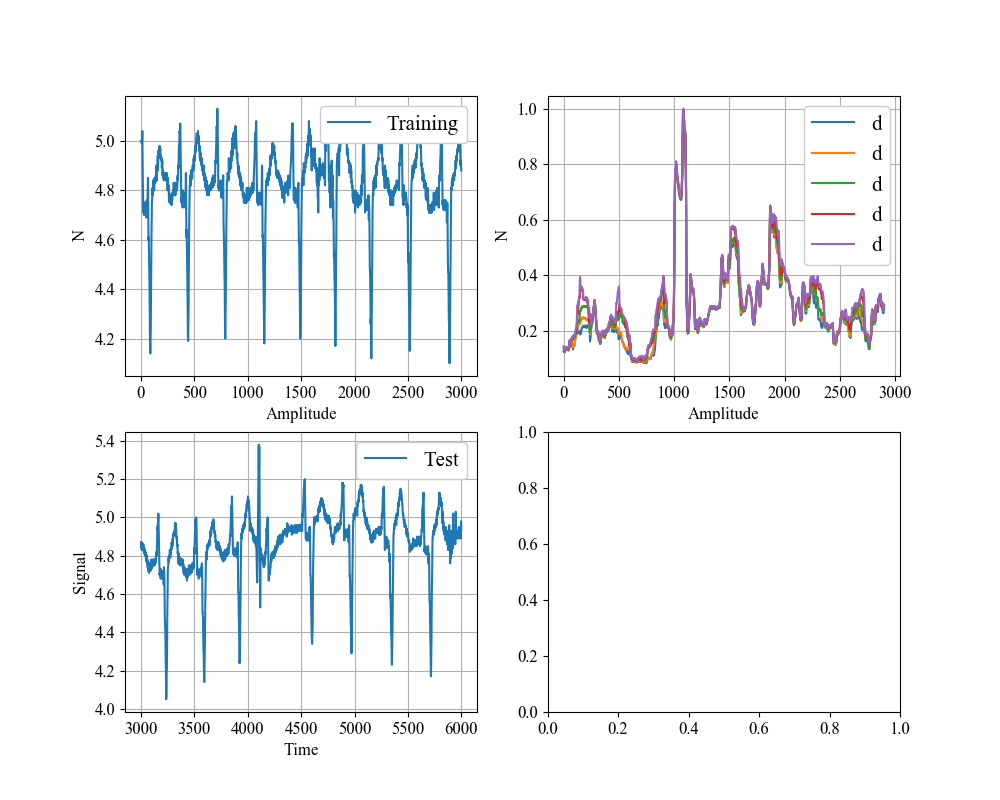
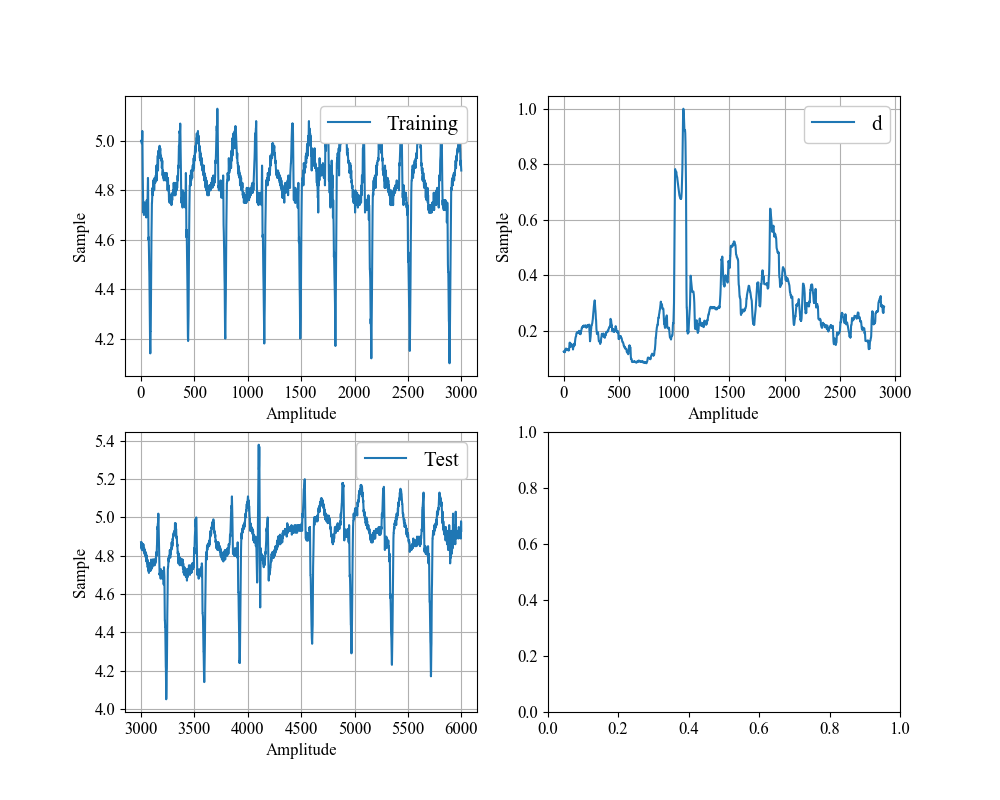
no message

diff --git a/python/scikit/kmeans/sample1.py b/python/scikit/kmeans/sample1.py
@@ -9,61 +9,66 @@ def main():
     df_csv = pd.read_csv(
         "C:\github\sample\python\scikit\kmeans\ecg_dataset.csv")
 
-    # 
+    # 訓練データ
     train_data = df_csv.iloc[1:3000, 1]
-    test_data = df_csv.iloc[3001:6000, 1]
-    width = 100
-    nk = 5
 
+    # 検証データ
+    test_data = df_csv.iloc[3001:6000, 1]
+
+    # 窓幅
+    width = 100
+
+    # K近傍法のk
+    nk = 1
+
+    # 窓幅を使ってベクトルの集合を作成
     train = embed(train_data, width)
     test = embed(test_data, width)
 
+    # k近傍法でクラスタリング
     neigh = NearestNeighbors(n_neighbors=nk)
     neigh.fit(train)
-    d = neigh.kneighbors(test)[0]  # [1]
-    #d = d.T
-    print(d)
-    # 距離をmax1にするデータ整形
+
+    # 距離を計算
+    d = neigh.kneighbors(test)[0] 
+
+    # 距離の正規化
     mx = np.max(d)
     d = d / mx
 
-    # プロット
-    test_for_plot = train_data
-
  
-    # グラフ表示
+    # グラフ作成
     fig = plt.figure(figsize=(10.0, 8.0))
     plt.rcParams['font.family'] = 'Times New Roman'
     plt.rcParams['font.size'] = 12
 
-    # 時間信号（元）
+    # 訓練データ
     plt.subplot(221)
     plt.plot(train_data, label='Training')
     plt.xlabel("Amplitude", fontsize=12)
-    plt.ylabel("N", fontsize=12)
+    plt.ylabel("Sample", fontsize=12)
     plt.grid()
     leg = plt.legend(loc=1, fontsize=15)
     leg.get_frame().set_alpha(1)
 
-    # 周波数信号(元)
+    # 異常度
     plt.subplot(222)
     plt.plot(d, label='d')
     plt.xlabel("Amplitude", fontsize=12)
-    plt.ylabel("N", fontsize=12)
+    plt.ylabel("Sample", fontsize=12)
     plt.grid()
     leg = plt.legend(loc=1, fontsize=15)
     leg.get_frame().set_alpha(1)
 
-    # 時間信号(処理後)
+    # 検証用データ
     plt.subplot(223)
     plt.plot(test_data, label='Test')
-    plt.xlabel("Time", fontsize=12)
-    plt.ylabel("Signal", fontsize=12)
+    plt.xlabel("Amplitude", fontsize=12)
+    plt.ylabel("Sample", fontsize=12)
     plt.grid()
     leg = plt.legend(loc=1, fontsize=15)
     leg.get_frame().set_alpha(1)
 
-    # 周波数信号(処理後)
     plt.subplot(224)
 
     plt.savefig('C:/github/sample/python/scikit/kmeans/sample1.png')
